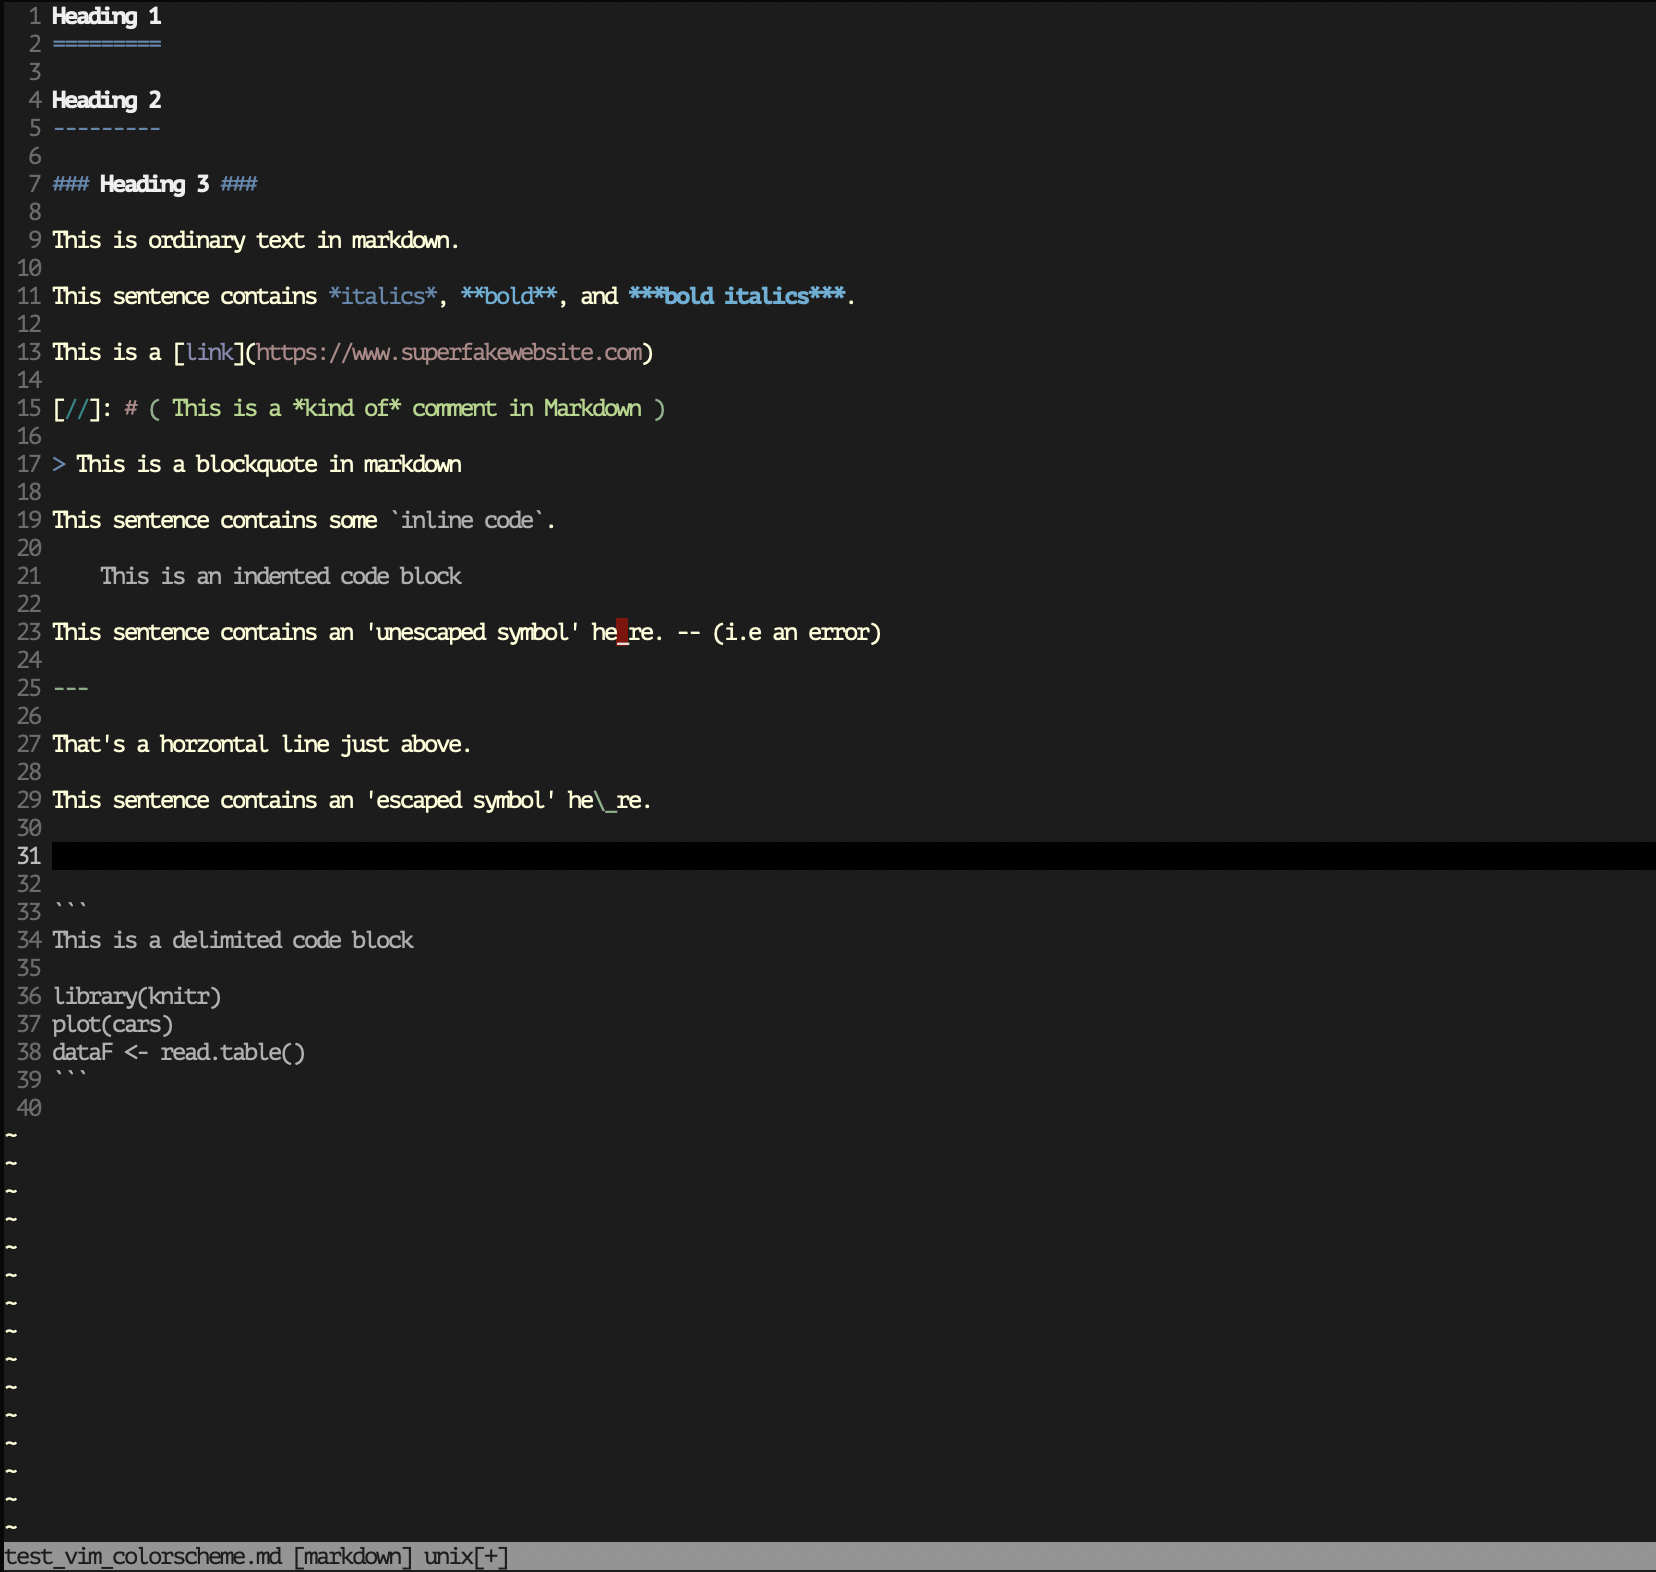
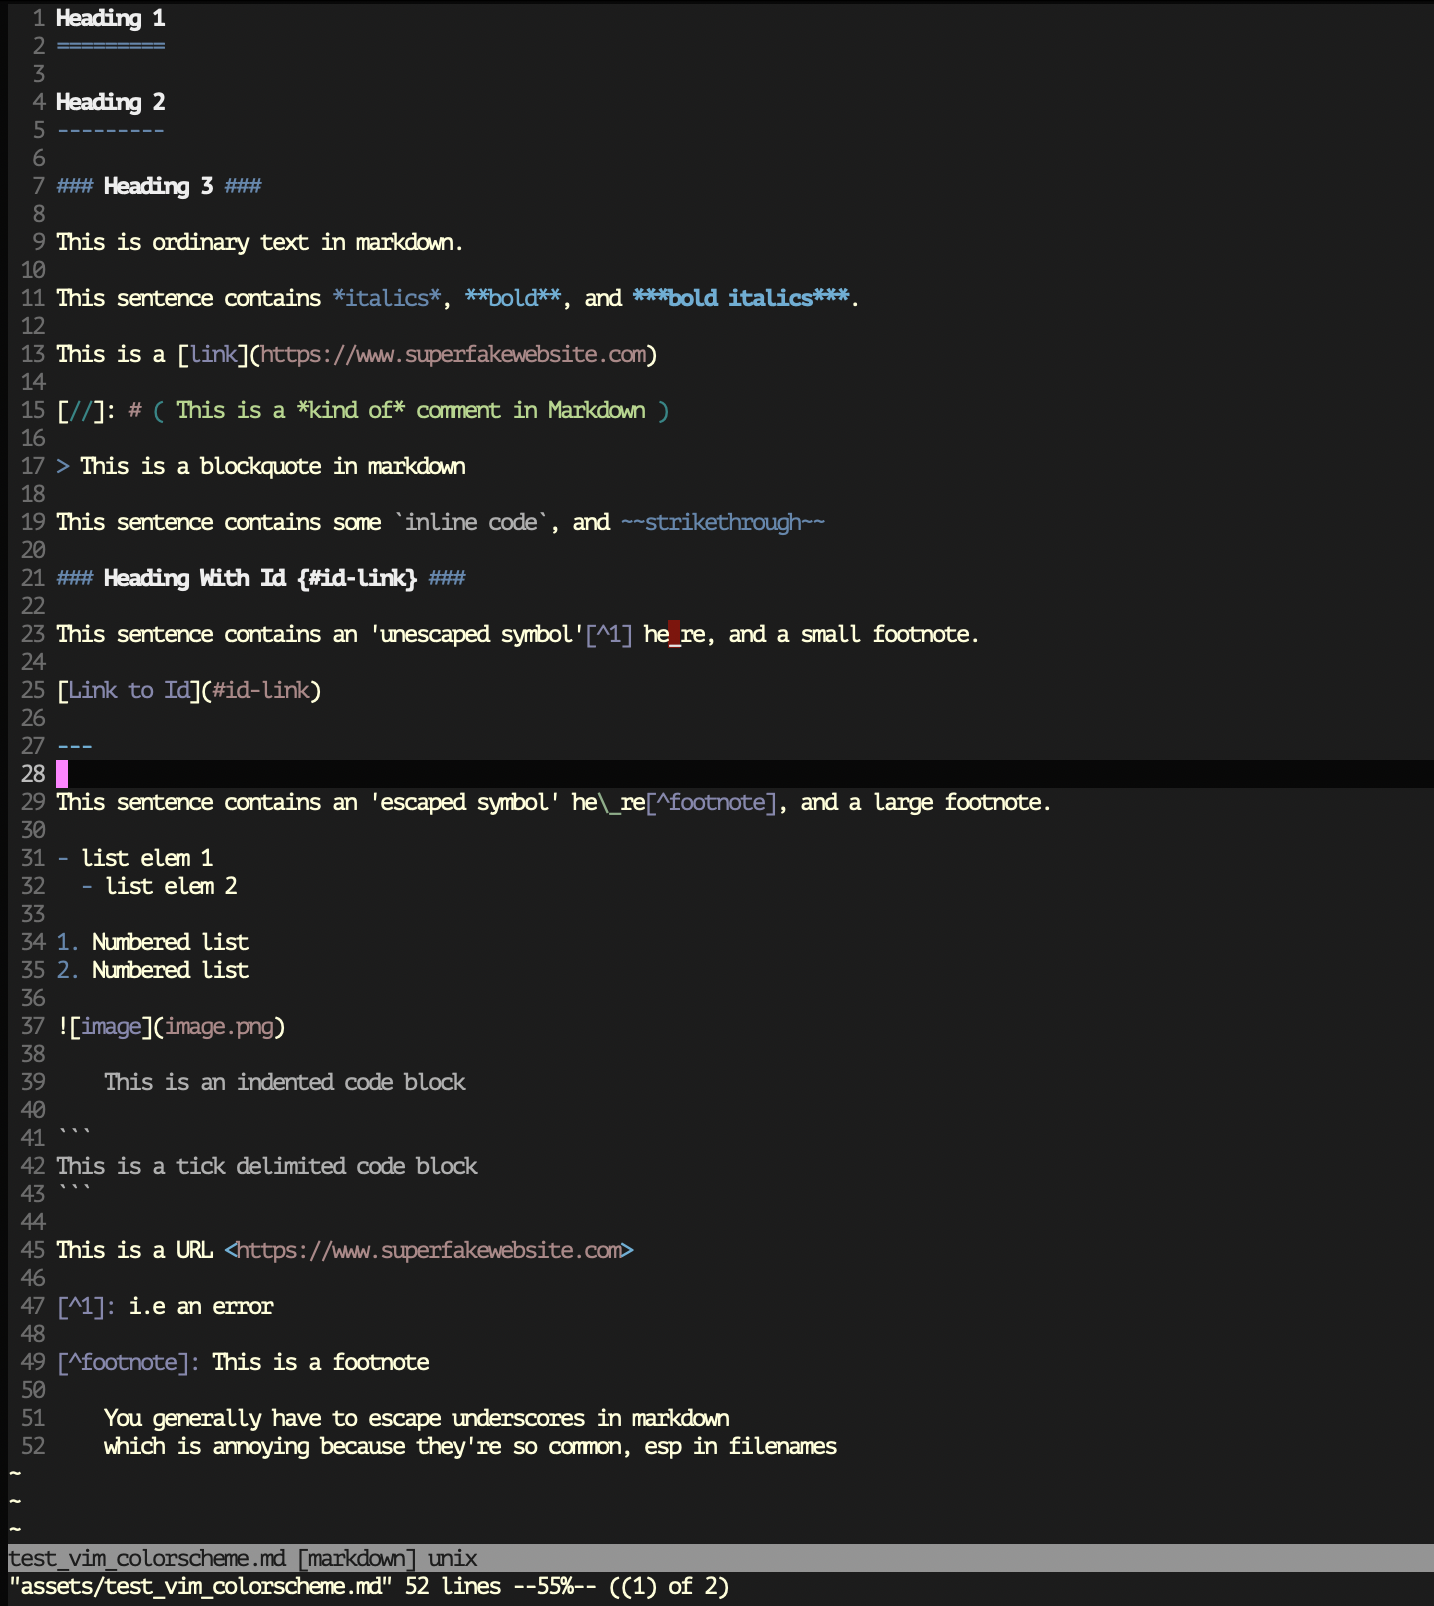
new screenshot, updated readme, and tweaked colours some more

diff --git a/README.md b/README.md
@@ -1,14 +1,20 @@
 Squire
 ======
 
-A dark, medium-contrast colorscheme for vim, inspired by favourite colorscheme: `apprentice`, by Romain Lafourcade.
-
-The pallette is heavy on low contrast blues and greens, with some yellow and purple, and off-white text.
+A dark, medium-contrast colorscheme for vim, inspired by my (other) favourite colorscheme: `apprentice`, by Romain Lafourcade.
 
 The goal is to end up with something similar to apprentice, with a slightly higher contrast against the background.
 
 It also explicitly sets a few extra markdown options.
 
+Here's some markdown in terminal MacVim:
+
 ![image](assets/markdownscreenshot.png)
+
+Here's a few other examples in a multiwindow shot in terminal MacVim:
+
+![image](assets/multi_window_screenshot.png)
+
+
 
 
